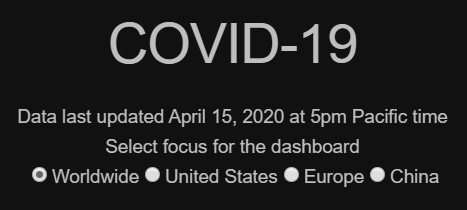
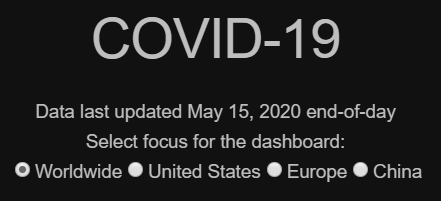
updated readme

diff --git a/README.md b/README.md
@@ -13,7 +13,7 @@ A web dashboard deployed on Heroku at [https://covid-19-raffg.herokuapp.com/](ht
 
  This button changes the underlying data for each displayed chart to reflect the selected region.
 
- Each evening at roughly 5pm, Johns Hopkins updates their data source with new cases from the day. My dashboard automatically runs an ETL script to download the new data, process it into the format required by the dashboard, and upload it to Heroku. The headline here declares when the data was most recently updated.
+ Each evening at roughly 5pm Eastern time, Johns Hopkins updates their data source with new cases from the day. My dashboard automatically runs an ETL script to download the new data, process it into the format required by the dashboard, and upload it to Heroku. The headline here declares when the data was most recently updated.
 
  ---
 
@@ -33,13 +33,20 @@ It is calculated as `ACTIVE = CONFIRMED - DEATHS - RECOVERED`
 - **DEATHS TO DATE** measures the running total of all COVID-19-related deaths
 - **RECOVERED CASES** is the number of cases in which the patient is deemed to have recovered from the illness and is no longer infected nor contagious.
 
-### Infections
+### Regional charts
+
+![regional charts](images/regional.png)
+There are two regional charts, described below. These charts can display absolute infection numbers within the region, or numbers relative to the region's population. Selecting the radio button for `Values per 100,000 of population` normalizes each curve by population and can make it easier to compare the infection rates of regions with vastly different population counts. Selecting `Total values` returns the charts to absolute numbers.
+
+#### Infections
 
 ![infections](images/infections.png)
 
 The infections chart displays the totals for `CONFIRMED`, `ACTIVE`, `RECOVERED`, and `DEATHS` for the selected region, by date. Hovering the mouse over the chart will reveal the counts for each of these measures on the specific date. Using the mouse, you can zoom in and out or click and drag to select a box to zoom in on. Additionally, hovering over the chart (or any chart on the dashboard) will make visible several control buttons in the top right of the chart. There are slightly different options for each chart, but of particular usefulness is the ability to reset the chart back to original zoom level.
 
-### Cases by Sub-Region
+As with the other two line charts on this dashboard, clicking on an item in the legend will temporarily remove that item from the chart. Clicking again will add it back. Double-clicking an item will remove all other items and isolate that singular item on the chart. Double-clicking again will add back all items.
+
+#### Cases by Sub-Region
 
 ![cases](images/cases.png)
 
@@ -47,15 +54,11 @@ The cases  graphic displays a line chart by sub-region of either `CONFIRMED`, `A
 
 By default, it displays sub-regions which were of particular interest when this dashboard was created. The dropdown-bar on the bottom allows you to select different sub-regions for display, either countries for the `Worldwide` or `Europe` focus or states/provinces for the `United States` or `China` focus. Typing in the dropdown-bar will allow you to search for sub-regions.
 
-As with the other two line charts on this dashboard, clicking on an item in the legend will temporarily remove that item from the chart. Clicking again will add it back. Double-clicking an item will remove all other items and isolate that singular item on the chart. Double-clicking again will add back all items.
-
 ### Infection Map
 
 ![map](images/map.png)
 
 The infection map features a circular marker over each sub-region. The size of the marker is relative to the square root of the `CONFIRMED` cases within that sub-region and the color indicates the percentage of those cases which were newly confirmed within the previous 7 days. Essentially, the size of the marker is a measure of how many people have caught the virus within that sub-region since the outbreak began and the color is a measure of how active the virus currently is, with dark red indicating the virus is actively spreading and white indicating that it is more under control. Hovering over a marker will reveal the country name and the exact value of the two measures. As with the other charts, the map is zoomable and dragable. Below the chart is a slider bar controlling the date at which the map displays data. By default it is set for the most recent date available but by dragging to the left you can see the spread of the pandemic through time.
-
-If `United States` is selected as the focus of the dashboard, each state will have its own marker for `CONFIRMED` cases, only up until March 22nd. At this point, John Hopkins University began to provide data aggregated to the county-level, and I have followed suit from this date onward. This provides a much more informative and granular view of the data, however the cost is dashboard performance. Unfortunately, rendering this 60x-increase in markers slows the dashboard down but I accepted this tradeoff for the additional insight provided.
 
 ### Trajectory
 
